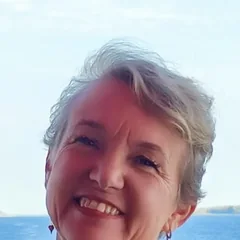
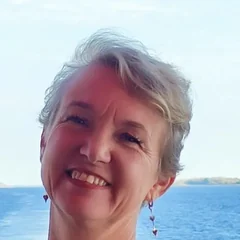
Личный MAX Ирины и обновлённое фото

diff --git a/index.html b/index.html
@@ -101,7 +101,7 @@
 }
 </style>
 </head>
-<body class="s-prod" id="top" data-wa="" data-tg="" data-max="https://max.ru/join/mQSMk13Elm79ZME4k1dJELcfBNhTjkMCXq9TO-aZxSs">
+<body class="s-prod" id="top" data-wa="" data-tg="" data-max="https://max.ru/u/f9LHodD0cOLbcHZlFlL4pPsA4So6lZgpUjHdemjEut8rS8SbUgjHdA6n4ig">
 <header class="s-bar" data-s-bar>
   <a class="s-bar__brand" href="#top"><i aria-hidden="true"></i>Астрея</a>
   <div class="s-bar__right">
@@ -128,7 +128,7 @@
       <fieldset><legend>Время</legend><div class="s-chips" data-s-times></div></fieldset>
       <div class="s-bubble" aria-live="polite"><span class="s-bubble__label">Текст сообщения</span><p data-s-bubble></p></div>
       <div class="s-send">
-        <a class="s-btn s-btn--wide" href="https://max.ru/join/mQSMk13Elm79ZME4k1dJELcfBNhTjkMCXq9TO-aZxSs" target="_blank" rel="noopener" data-s-msg="max">Отправить</a>
+        <a class="s-btn s-btn--wide" href="https://max.ru/u/f9LHodD0cOLbcHZlFlL4pPsA4So6lZgpUjHdemjEut8rS8SbUgjHdA6n4ig" target="_blank" rel="noopener" data-s-msg="max">Отправить</a>
         
       </div>
       <p class="s-send__note" data-s-copied hidden>Текст скопирован – вставьте его в чат.</p>

diff --git a/style.js b/style.js
@@ -144,7 +144,7 @@
     if (sr.querySelector("#irina-launcher-style")) return true;
     const style = document.createElement("style");
     style.id = "irina-launcher-style";
-    const url = new URL("assets/agent.webp", location.href).href;
+    const url = new URL("assets/agent.webp?v=20261126b", location.href).href;
     style.textContent = `.launcher{background-image:url("${url}")!important;background-size:cover!important;background-position:center!important;background-repeat:no-repeat!important;background-color:transparent!important}.launcher svg{display:none!important}`;
     sr.appendChild(style);
     return true;
